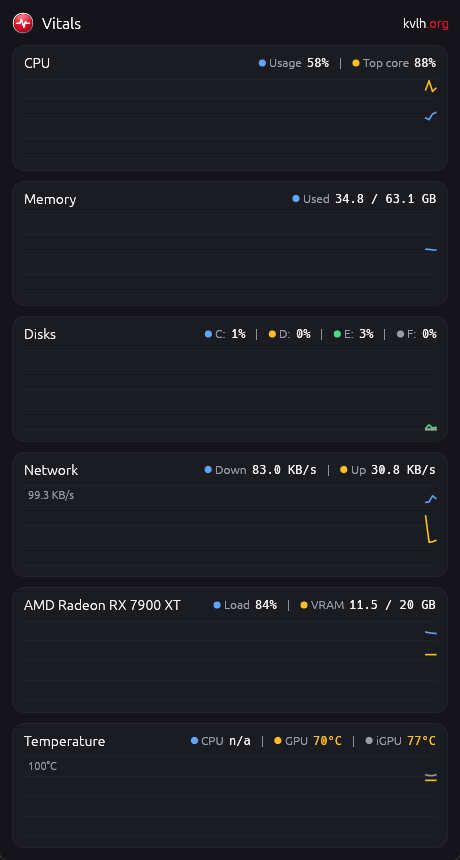
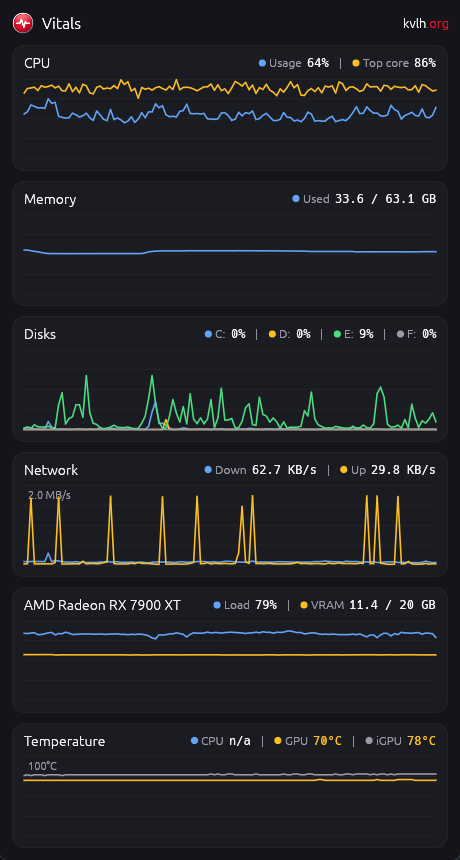
Add README with Windows, Linux and macOS screenshots

diff --git a/README.md b/README.md
@@ -1,0 +1,70 @@
+<p align="center"><img src="docs/icon-256.png" width="96" alt="Vitals icon"></p>
+
+<h1 align="center">Vitals</h1>
+
+<p align="center">A small performance monitor with nothing to click. One window, one graph per component, the last two minutes of history.<br>Rust + egui, for Windows, Linux and macOS.</p>
+
+<p align="center">
+  <img src="docs/windows.png" width="300" alt="Vitals on Windows, narrow window">
+  <img src="docs/windows-wide.png" width="520" alt="Vitals on Windows, wide window">
+</p>
+
+## What it shows
+
+| Block | Lines on the graph |
+|---|---|
+| CPU | Usage, busiest core |
+| Memory | Used, against total |
+| Disks | Active time of each physical disk |
+| Network | Download, upload on physical adapters only, so VPN and virtual adapter traffic is not counted twice |
+| GPU | Load, VRAM |
+| Temperature | CPU, GPU, integrated GPU (turns amber at 70 °C, red at 85 °C) |
+
+It samples once per second. The window shows one column when narrow and two when wide, and follows the system light or dark theme. No driver, admin or root rights are needed.
+
+## What each OS can show
+
+| | Windows | Linux | macOS |
+|---|---|---|---|
+| CPU, memory | Yes | Yes | Yes |
+| Disks | Yes, by drive letter | Yes, by device (sda, nvme0n1) | Yes, as Disk 1, Disk 2 |
+| Network | Yes | Yes | Yes (en* interfaces) |
+| GPU load, VRAM | Yes, any vendor | AMD only (amdgpu) | Yes; memory shown against RAM, which the GPU shares |
+| GPU temperature | Yes, same source as Task Manager | AMD only | No public API |
+| CPU temperature | No: Windows needs a kernel driver for it | Yes (k10temp, coretemp) | Apple silicon die sensors |
+
+Where a value is not available, the legend shows `n/a`.
+
+## Download and run
+
+Prebuilt binaries are on the [Releases](../../releases) page.
+
+- **Windows**: run `vitals-windows-x64.exe`. It is not code-signed, so SmartScreen may ask for confirmation the first time.
+- **Linux**: `tar xzf vitals-linux-x64.tar.gz && ./vitals`. Needs X11 or Wayland with OpenGL.
+- **macOS**: unzip `vitals-macos-universal.zip` and move `Vitals.app` to Applications. The app is ad-hoc signed, not notarized: open it the first time with right-click, Open, or run `xattr -dr com.apple.quarantine Vitals.app`. Universal build for Apple silicon and Intel.
+
+## Resource use
+
+Measured on Windows 11 with a Ryzen 9 7950X and a Radeon RX 7900 XT: about 0% CPU, a 4.7 MB executable, and about 105 MB of private memory, most of it the graphics driver's OpenGL runtime.
+
+## Build
+
+```sh
+cargo build --release
+```
+
+- `.github/workflows/build.yml` builds Linux (on Ubuntu 22.04, for an older glibc) and a universal, ad-hoc signed `Vitals.app` for macOS, then checks the app is still running after 10 seconds.
+- `assets/vitals-icon.svg` is the icon source. `assets/make-icon.ps1` renders it into `vitals.ico`, `vitals.res` (embedded in the Windows exe by `build.rs`) and `macos/vitals.icns`.
+- Platform code lives in `src/platform/`: one file per OS with the same small API.
+
+## Status
+
+- Windows: tested on Windows 11, values checked against Task Manager.
+- Linux: the release build runs (tested under WSL, which has no GPU or temperature sensors). GPU and temperature readings are untested on real hardware.
+- macOS: the release build runs on a GitHub macOS VM. GPU and disk readings are untested on a real Mac.
+
+<p align="center">
+  <img src="docs/linux-wsl.png" width="300" alt="Vitals on Linux under WSL, dark theme">
+  <img src="docs/macos-vm.png" width="300" alt="Vitals on a macOS VM, light theme">
+</p>
+<p align="center"><sub>Linux under WSL (left) and macOS in a GitHub VM (right). Both VMs have no real GPU or temperature sensors, hence the n/a values.</sub></p>
